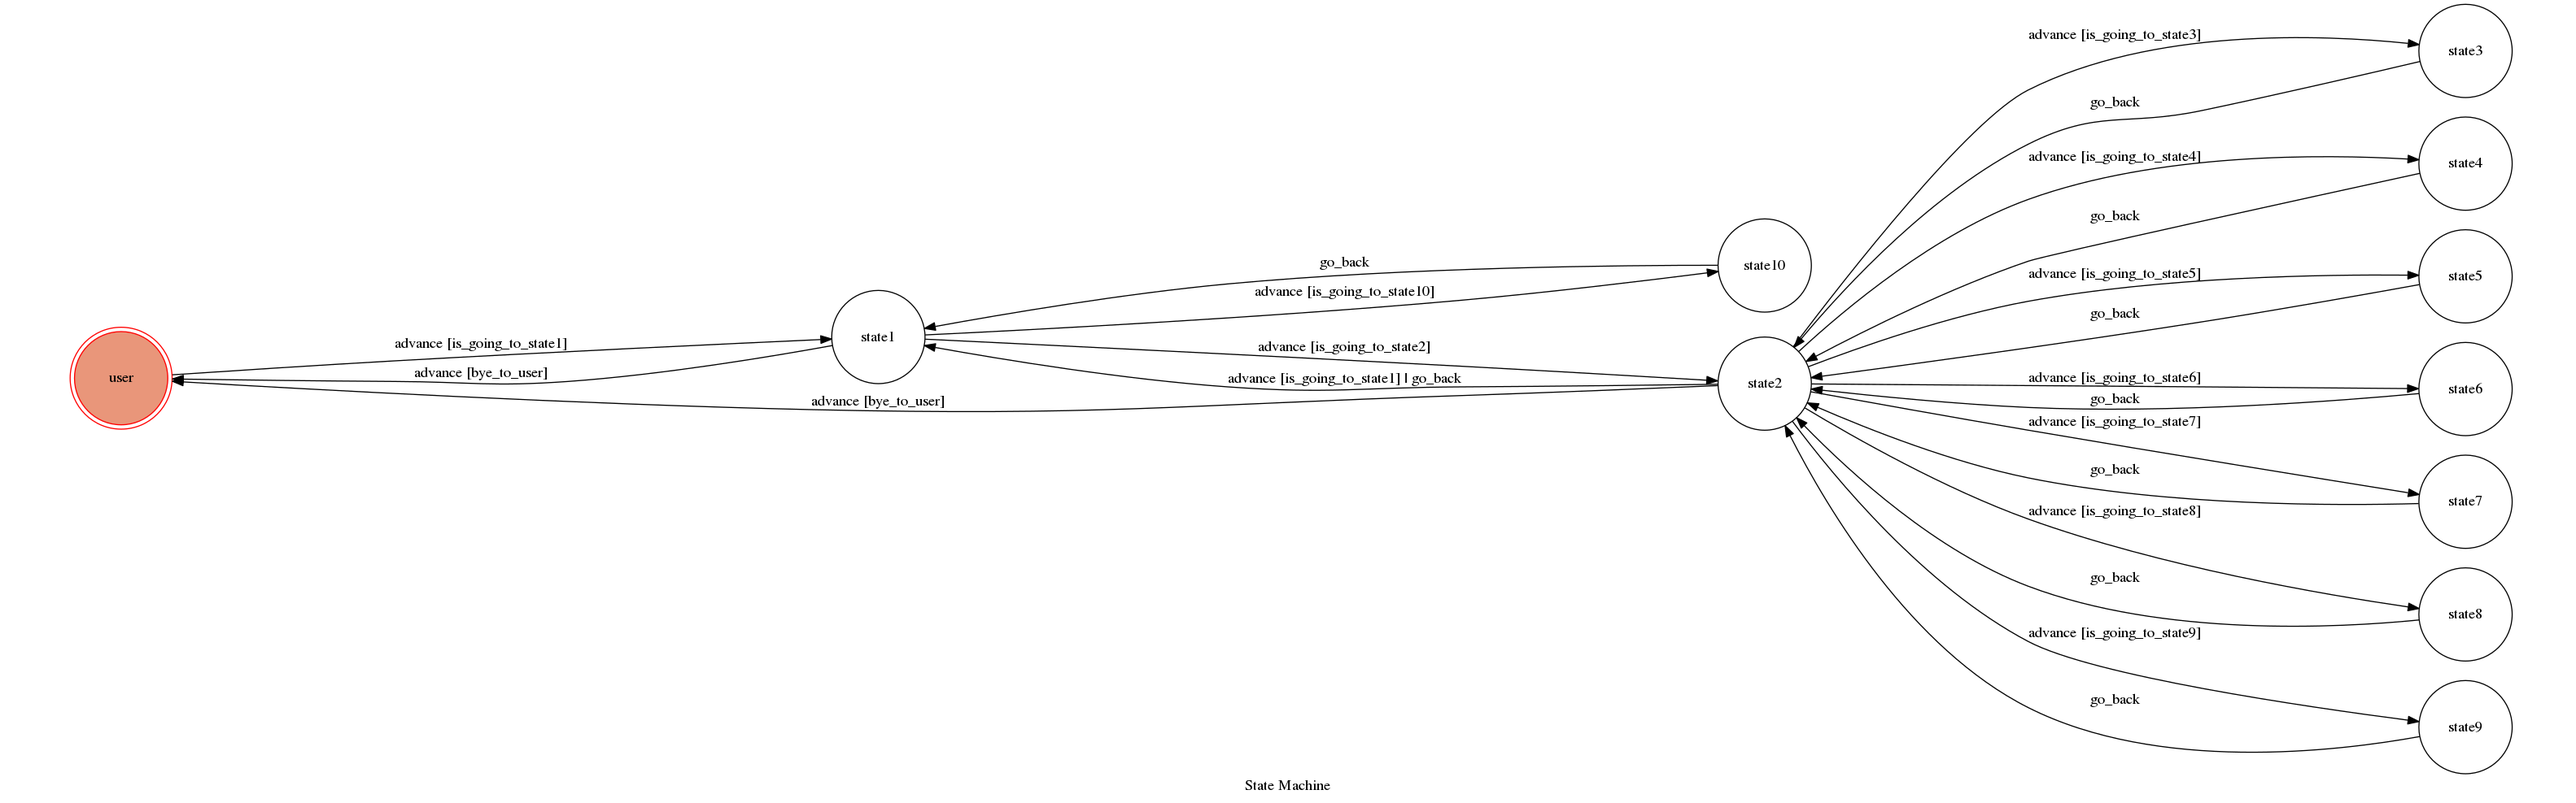
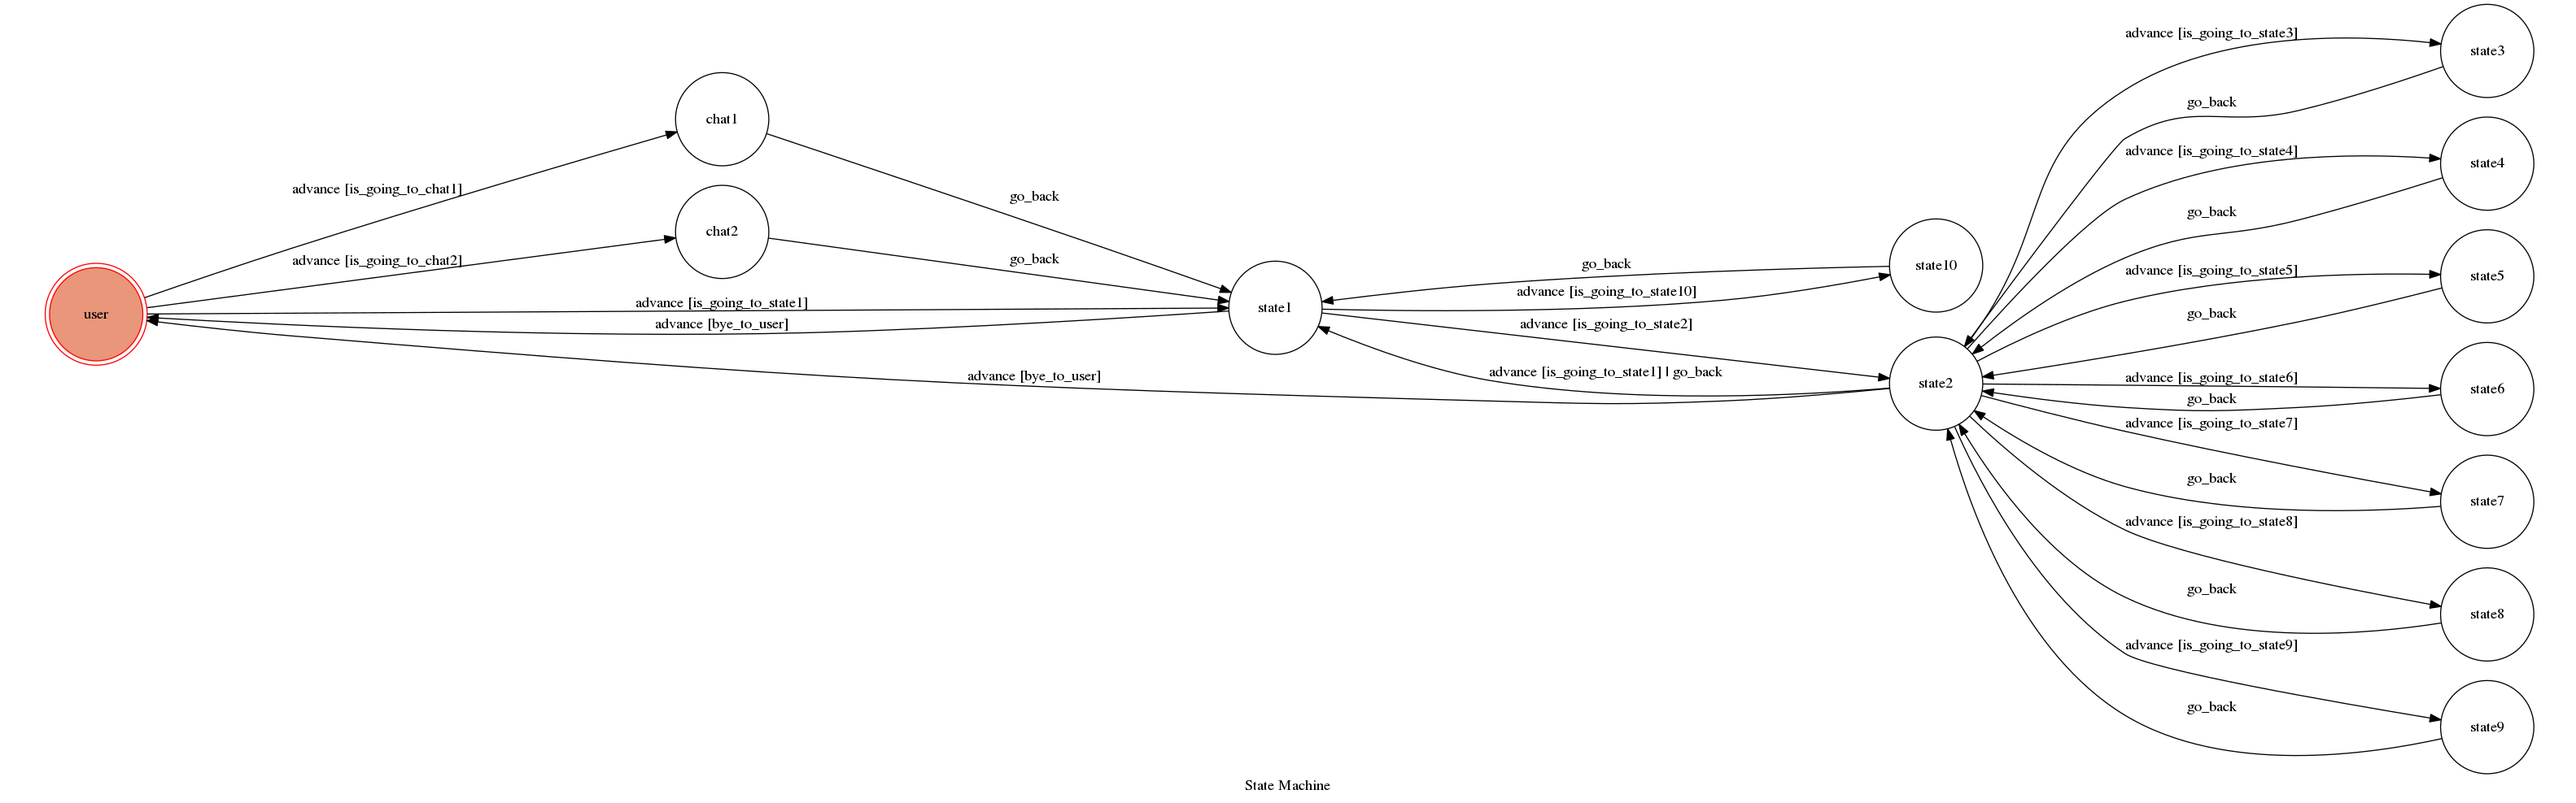
Add image and audio reply.

diff --git a/app.py b/app.py
@@ -15,6 +15,8 @@ bot = telegram.Bot(token=API_TOKEN)
 machine = TocMachine(
     states=[
         'user',
+        'chat1',
+        'chat2',
         'state1',
         'state2',
 		'state3',
@@ -32,6 +34,18 @@ machine = TocMachine(
             'source': 'user',
             'dest': 'state1',
             'conditions': 'is_going_to_state1'
+        },
+        {#user to state1
+            'trigger': 'advance',
+            'source': 'user',
+            'dest': 'chat1',
+            'conditions': 'is_going_to_chat1'
+        },
+        {#user to state1
+            'trigger': 'advance',
+            'source': 'user',
+            'dest': 'chat2',
+            'conditions': 'is_going_to_chat2'
         },
         {#state1 to state2
             'trigger': 'advance',
@@ -116,12 +130,15 @@ machine = TocMachine(
             'trigger': 'go_back',
             'source': [
                 'state10',
+                'chat1',
+                'chat2',
             ],
             'dest': 'state1'
         },
         {
             'trigger': 'go_back',
             'source': [
+
                 'state3',
                 'state4',
                 'state5',
@@ -167,3 +184,4 @@ if __name__ == "__main__":
     _set_webhook()
     machine.get_graph().draw('state_diagram.png', prog = 'dot')
     app.run()
+

diff --git a/fsm.py b/fsm.py
@@ -19,6 +19,15 @@ class TocMachine(GraphMachine):
         if text.lower() == 'bye':
             update.message.reply_text("ㄅㄅ")
             return 1
+    def is_going_to_chat1(self, update):
+        text = update.message.text
+        if text.lower() == 'show fsm':
+            return 1
+
+    def is_going_to_chat2(self, update):
+        text = update.message.text
+        if text.lower() == '簡單介紹一下你自己':
+            return 1
 
     def is_going_to_state1(self, update):
         text = update.message.text
@@ -65,6 +74,18 @@ class TocMachine(GraphMachine):
         text = update.message.text
         if text.lower() == '查戰績':
             return 1
+
+    def on_enter_chat1(self, update):
+        update.message.reply_photo(open("state_diagram.png","rb"))
+
+    def on_exit_chat1(self, update):
+        print('Leaving chat1')
+
+    def on_enter_chat2(self, update):
+        update.message.reply_audio(open("output.ogg","rb"))
+
+    def on_exit_chat2(self, update):
+        print('Leaving chat2')
     
     def on_enter_state1(self, update):
         update.message.reply_text("你好!我可以為你做什麼呢？")

diff --git a/README.md b/README.md
@@ -46,8 +46,10 @@ python3 app.py
 ## Usage
 The initial state is set to `user`.
 
-總共有user+其他10個states
+總共有user, chat1, chat2和其他10個states
 * user輸入"嗨" ->進入state1
+* user輸入"show fsm" ->進入chat1，印出state diagram
+* user輸入"簡單介紹一下你自己" ->進入chat2，她會簡單介紹她自己
 * state1輸入"查賽程"->進入state2
 * state1輸入"查戰績"->進入state10，印出當前戰績
 
